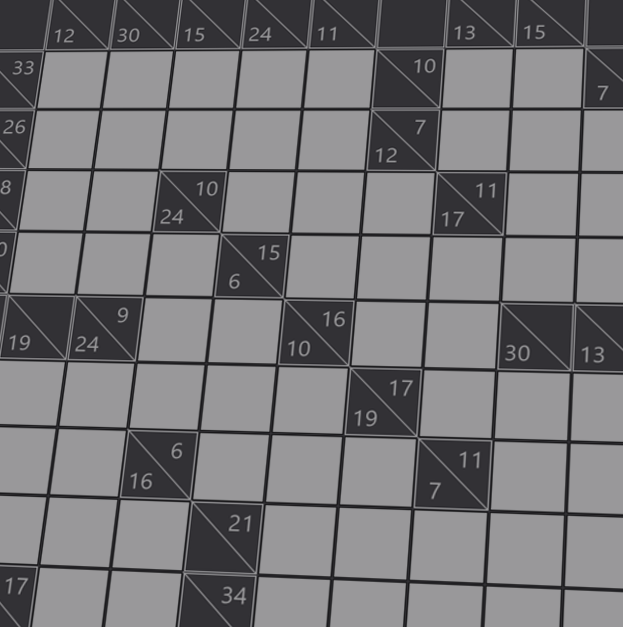
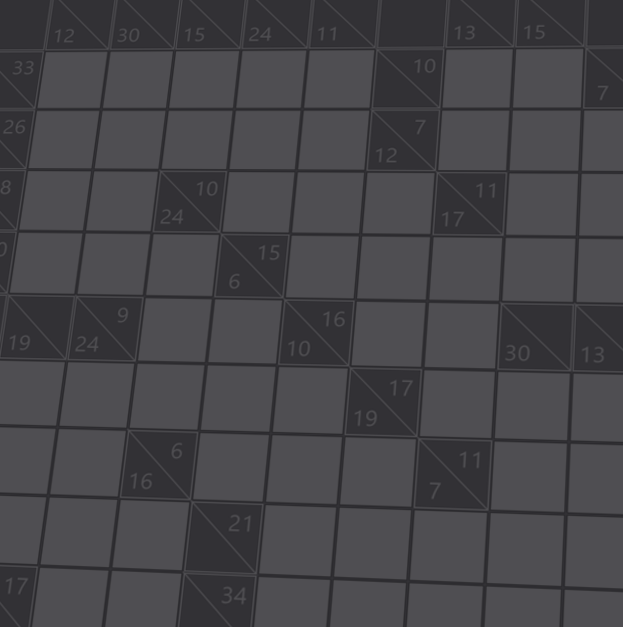
Final Touches

diff --git a/src/kakuro/Main.css b/src/kakuro/Main.css
@@ -1,3 +1,7 @@
+/*** Bobby Palmer
+ * 	 Phil Smith
+ ***/
+
 /* VARIABLE DEFINITIONS: Only these 4 variables have to be adjusted, the rest is copy-paste */
 * {
     -fx-my-menu-color: #44434b;                  /* Change according to your needs */
@@ -83,6 +87,7 @@
     -fx-background-color: -fx-my-menu-color;
 }
 
+/*** Sets basic characteristics combo-box ***/
 .combo-box-base {
     -fx-background-color: transparent;
     -fx-background-insets: 0 0 -1 0, 0, 1, 2;
@@ -91,15 +96,18 @@
     -fx-pref-height: 60;
 }
 
+/*** Makes stupid arrow invisible ***/
 .combo-box .arrow, .combo-box .arrow-button {
     -fx-background-color: transparent;
 }
 
+/*** Cell properties inside combo-box ***/
 .combo-box .list-cell {
 	-fx-alignment: center;
 	-fx-font: 18 px;
 }
 
+/*** Used for title picture button ***/
 .button{
     -fx-border-color: transparent;
     -fx-border-width: 0;
@@ -107,14 +115,17 @@
     -fx-background-color: transparent;
 }
 
+/*** Used for title picture button ***/
 .button:focused {
     -fx-border-color: transparent;
 }
 
+/*** Used for title picture button ***/
 .button:pressed {
     -fx-background-color: transparent;
 }
 
+/*** Sets basic parameters in case everything gets jacked somehow. ***/
 .root {
     -fx-background-color: #323135;
     -fx-font-family: "Helvetica";
@@ -124,6 +135,7 @@
     -fx-focus-color: #44434b;
 }
 
+/*** Used for clickable buttons ***/
 .landing-button {
     -fx-background-color: transparent;
     -fx-border-radius: 30 30 30 30;
@@ -131,6 +143,7 @@
   	-fx-border-width: 5 5 5 5;
 }
 
+/*** Used for clickable buttons ***/
 .landing-button:focused {
     -fx-background-color: transparent;
     -fx-border-radius: 30 30 30 30;
@@ -138,6 +151,7 @@
   	-fx-border-width: 5 5 5 5;
 }
 
+/*** Used for clickable buttons ***/
 .landing-button:pressed {
     -fx-background-color: transparent;
     -fx-border-radius: 30 30 30 30;
@@ -145,6 +159,7 @@
   	-fx-border-width: 5 30 5 30;
 }
 
+/*** Used for black-tiles ***/
 .black-rect {
 	-fx-fill: #323135;
 	-fx-stroke: white;

diff --git a/src/kakuro/GameBoard.java b/src/kakuro/GameBoard.java
@@ -65,19 +65,26 @@ public class GameBoard {
 	 */
 	public GameBoard(Stage primaryStage, File file) {
 		this.primaryStage = primaryStage;
+		
+		// Reads board, gets size calculations.
 		this.readBoard(file);
 		int boardSize = tiles.length;
 		this.boardSize = boardSize;
-
+		
+		// Limits window size to board size.
 		root.setMaxSize(tileSize*(boardSize), tileSize*(boardSize));
-
+		
+		// COnstructs the allowed value calculation objects.
 		this.buildRowsColumns();
-
+		
+		// Gets tile objects displayed in the window.
 		for (int i = 0; i < boardSize; i++) {
 			for (int j = 0; j < boardSize; j++) {
 				Tile tile = tiles[i][j];
 				if(tile.getType().equals("white")) {
 					WhiteTile t = (WhiteTile) tiles[i][j];
+					
+					// Deals with white tiles with stored value information.
 					if(!t.loadBoardValue.equals("")) {
 						t.valueChange(t.loadBoardValue);
 					}
@@ -85,6 +92,7 @@ public class GameBoard {
 				appContent.add(tile, j, i);
 			}
 		}
+		// Gives some padding to board for esthetics.
 		appContent.setPadding(new Insets(5, 5, 5, 5));
 	}
 
@@ -173,6 +181,8 @@ public class GameBoard {
 					}
 				}
 			}
+			// Gives some padding to board for esthetics.
+			appContent.setPadding(new Insets(5, 5, 5, 5));
 		}
 
 		// set the row and column sums on the black tiles
@@ -552,6 +562,9 @@ public class GameBoard {
 			int row = 0;
 
 			while((line = bufferedReader.readLine()) != null) {
+				
+				// Generates temporary array-lists as board data is of unknown size at this point.
+				// These are populated with data and then added to the tiles array, which now has an initialization size.
 				if (line.startsWith("row")) {
 					int columns = rowTiles.size();
 					if (row == 0) {
@@ -566,21 +579,27 @@ public class GameBoard {
 					rowTiles = new ArrayList<Tile>();
 					continue;
 				}
-
+				// Data in file arranged with tabs. Data is split along tab.
 				String[] data = line.split("\t");
+				
+				// Deals with black tile data.
 				if(data[0].equals("Black")) {
 					BlackTile tile = new BlackTile(tileSize);
 
 					tile.setValues(data[1], data[2]);
-
+					
+					// Gives tiles information for allowed value calculation in future.
 					tile.setx(row);
 					tile.sety(rowTiles.size());
 
 					rowTiles.add(tile);
 				}
+				
+				// Deals with white tile data.
 				else if(data[0].equals("White")) {
 					WhiteTile tile = new WhiteTile(this);
-
+					
+					// Gives tiles information for allowed value calculation in future.
 					tile.setx(row);
 					tile.sety(rowTiles.size());
 
@@ -685,6 +704,8 @@ public class GameBoard {
 		// if the number of entered values is equal to the number of white tiles,
 		// then the user must have won
 		if (whiteTiles == enteredValues) {
+			
+			// An alert box is generated and shown when user wins game.
 			Alert alert = new Alert(AlertType.INFORMATION);
 			alert.setTitle("Victory is Yours");
 			alert.setHeaderText("Congratulations, you won the game!");
@@ -702,20 +723,25 @@ public class GameBoard {
 	 * to a valid (*.KAKURO) data file on the user's system.
 	 */
 	public void save() {
+		// Generates file-chooser and header.
 		FileChooser fileChooser = new FileChooser();
 		fileChooser.setTitle("Save Game");
-
+		
+		// Filters allowed extensions.
         FileChooser.ExtensionFilter extFilter = new FileChooser.ExtensionFilter("KAKURO files (*.kakuro)", "*.kakuro");
         fileChooser.getExtensionFilters().add(extFilter);
-
+        
+        // Gives pointer to resource folder as default.
         fileChooser.setInitialDirectory(new File("Resources"));
-
+        
+        // Gets the file from file chooser.
         File file = fileChooser.showSaveDialog(primaryStage);
 
         if(file != null){
         	try {
         		BufferedWriter bw = new BufferedWriter(new FileWriter(file));
-
+        		
+        		// Writes the data from tile objects to data file.
         		for(int i = 0; i < tiles.length; i++) {
         			if(i != 0) {
         				bw.write("row" + "\n");
@@ -739,14 +765,18 @@ public class GameBoard {
 	 * the valid file constructor, and displays the new Game-board object on the screen.
 	 */
 	public void open() {
+		// Generates file-chooser and header.
 		FileChooser fileChooser = new FileChooser();
 		fileChooser.setTitle("Open Game");
-
+		
+		// Filters allowed extensions.
         FileChooser.ExtensionFilter extFilter = new FileChooser.ExtensionFilter("KAKURO files (*.kakuro)", "*.kakuro");
         fileChooser.getExtensionFilters().add(extFilter);
-
+        
+        // Gives pointer to resource folder as default.
         fileChooser.setInitialDirectory(new File("Resources"));
-
+        
+        // Gets the file from file chooser.
         File file = fileChooser.showOpenDialog(primaryStage);
 
         openBoard(file);

diff --git a/src/kakuro/WhiteTile.java b/src/kakuro/WhiteTile.java
@@ -5,7 +5,6 @@
 package kakuro;
 
 import java.util.HashSet;
-
 import javafx.beans.value.ChangeListener;
 import javafx.beans.value.ObservableValue;
 import javafx.scene.control.ComboBox;
@@ -14,6 +13,12 @@ import javafx.scene.paint.Color;
 import javafx.scene.shape.Rectangle;
 import javafx.scene.text.Font;
 
+/**
+ * WhiteTile inherits from the abstract Tile class, which
+ * inherits FX-node properties from Stack-Pane. Provides all the
+ * functionality for the input of values onto boards, and modification/
+ * retrieval of valid values from game-board value generator.
+ */
 public class WhiteTile extends Tile {
 
 	private GameBoard g;
@@ -22,6 +27,12 @@ public class WhiteTile extends Tile {
 	private String value = "";
 	public String loadBoardValue = "";
 
+	/**
+	 * Constructor sets up all the basic GUI elements and places them on
+	 * the game-board. Event handlers are also attached here, mainly
+	 * through lambda functions.
+	 * @param gameBoard: Reference to g/b for valid value retrieval.
+	 */
 	public WhiteTile(GameBoard gameBoard) {
 		g = gameBoard;
 		setSize(gameBoard.getTileSize());
@@ -66,6 +77,11 @@ public class WhiteTile extends Tile {
 		getChildren().addAll(displayed, label, combo);
 	}
 	
+	/**
+	 * Every-time the value entry combo-box is changed the change is checked
+	 * and whenever necessary modifies the the valid value calculation in g/b.
+	 * @param newValue
+	 */
 	public void valueChange(String newValue) {
 		if(value.equals("") && !newValue.equals("")) {
 			g.setEntered(Integer.parseInt(newValue), getx(), gety());
@@ -86,6 +102,10 @@ public class WhiteTile extends Tile {
     	label.setText(newValue);
 	}
 
+	/**
+	 * Method retrieves the valid values from the g/b and adds them to our display
+	 * mechanism, a combo-box.
+	 */
 	private void setComboLabels() {		
 		HashSet<Integer> validValues = g.validValues(getx(), gety());
 		String[] validEntries = new String[validValues.size()+1];
@@ -100,11 +120,19 @@ public class WhiteTile extends Tile {
 		combo.getItems().setAll(validEntries);
 	}
 
+	/**
+	 * Allows a value to be set from other parts of the program, and displayed.
+	 * @param value: A String.
+	 */
 	public void setValue(int value) {
 		String v = ((Integer) value).toString();
 		this.valueChange(v);
 	}
 
+	/**
+	 * Allows other parts of the program to retrieve the tiles numerical value.
+	 * @return Integer representation of the value.
+	 */
 	public int getValue() {
 		if(value.equals("")) {
 			return 0;
@@ -114,6 +142,9 @@ public class WhiteTile extends Tile {
 		}
 	}
 
+	/**
+	 * Causes the value to be set to empty.
+	 */
 	public void setEmpty() {
 		this.valueChange("");
 	}

diff --git a/src/kakuro/Main.java b/src/kakuro/Main.java
@@ -8,24 +8,36 @@ import javafx.application.Application;
 import javafx.stage.Stage;
 import javafx.scene.Scene;
 
+/**
+ * Java-FX class Application is extended, enabling a start method
+ * which initializes a stage (essentially blank window pane).
+ */
 public class Main extends Application {
-
+	
 	public static void main(String[] args) {
 		launch(args);
 	}
 
 	/**
-	 * comment this whole file
+	 * Inherited from Application; initializes the stage, and the game-board
+	 * in which the majority of our code is controlled and executed.
 	 */
 	@Override
 	public void start(Stage primaryStage) {
 		try {
+			// Initializes game-board and sets as "scene"
 			GameBoard gameBoard = new GameBoard(primaryStage);
 			Scene scene = new Scene(gameBoard.createContent());
+			
+			// Adds CSS styling to the the entire application.
 			scene.getStylesheets().add(Main.class.getResource("Main.css").toExternalForm());
+			
+			// Sets window characteristics.
 			primaryStage.setResizable(false);
 			primaryStage.setScene(scene);
 			primaryStage.setTitle("Taidana Kakuro");
+			
+			// Displays the application.
 			primaryStage.show();
 		} catch(Exception e) {
 			e.printStackTrace();

diff --git a/src/kakuro/LandingPage.java b/src/kakuro/LandingPage.java
@@ -1,3 +1,8 @@
+/**
+ * @author Bobby Palmer
+ * @author Phil Smith
+ */
+
 package kakuro;
 
 import javafx.application.Platform;
@@ -13,6 +18,10 @@ import javafx.scene.layout.BackgroundRepeat;
 import javafx.scene.layout.BackgroundSize;
 import javafx.scene.layout.GridPane;
 
+/**
+ * Class generates a landing page object, which is generated and displayed
+ * by the game-board in its main content space.
+ */
 public class LandingPage {
 
 	private GameBoard g;
@@ -32,6 +41,7 @@ public class LandingPage {
 	public LandingPage(GameBoard gB) {
 		g = gB;
 		
+		// Gets background picture.
 		BackgroundImage bI = new BackgroundImage(new Image("File:Resources/img/background.png"), BackgroundRepeat.NO_REPEAT,
 				BackgroundRepeat.NO_REPEAT, BackgroundPosition.DEFAULT, BackgroundSize.DEFAULT);
 		          
@@ -39,7 +49,7 @@ public class LandingPage {
 		appContent.setBackground(new Background(bI));
 
 		appContent.setVgap(5);
-		appContent.setPadding(new Insets(5, 10, 5, 10));
+		appContent.setPadding(new Insets(5, 15, 5, 15));
 
 		// Title Button Generation
 		{
